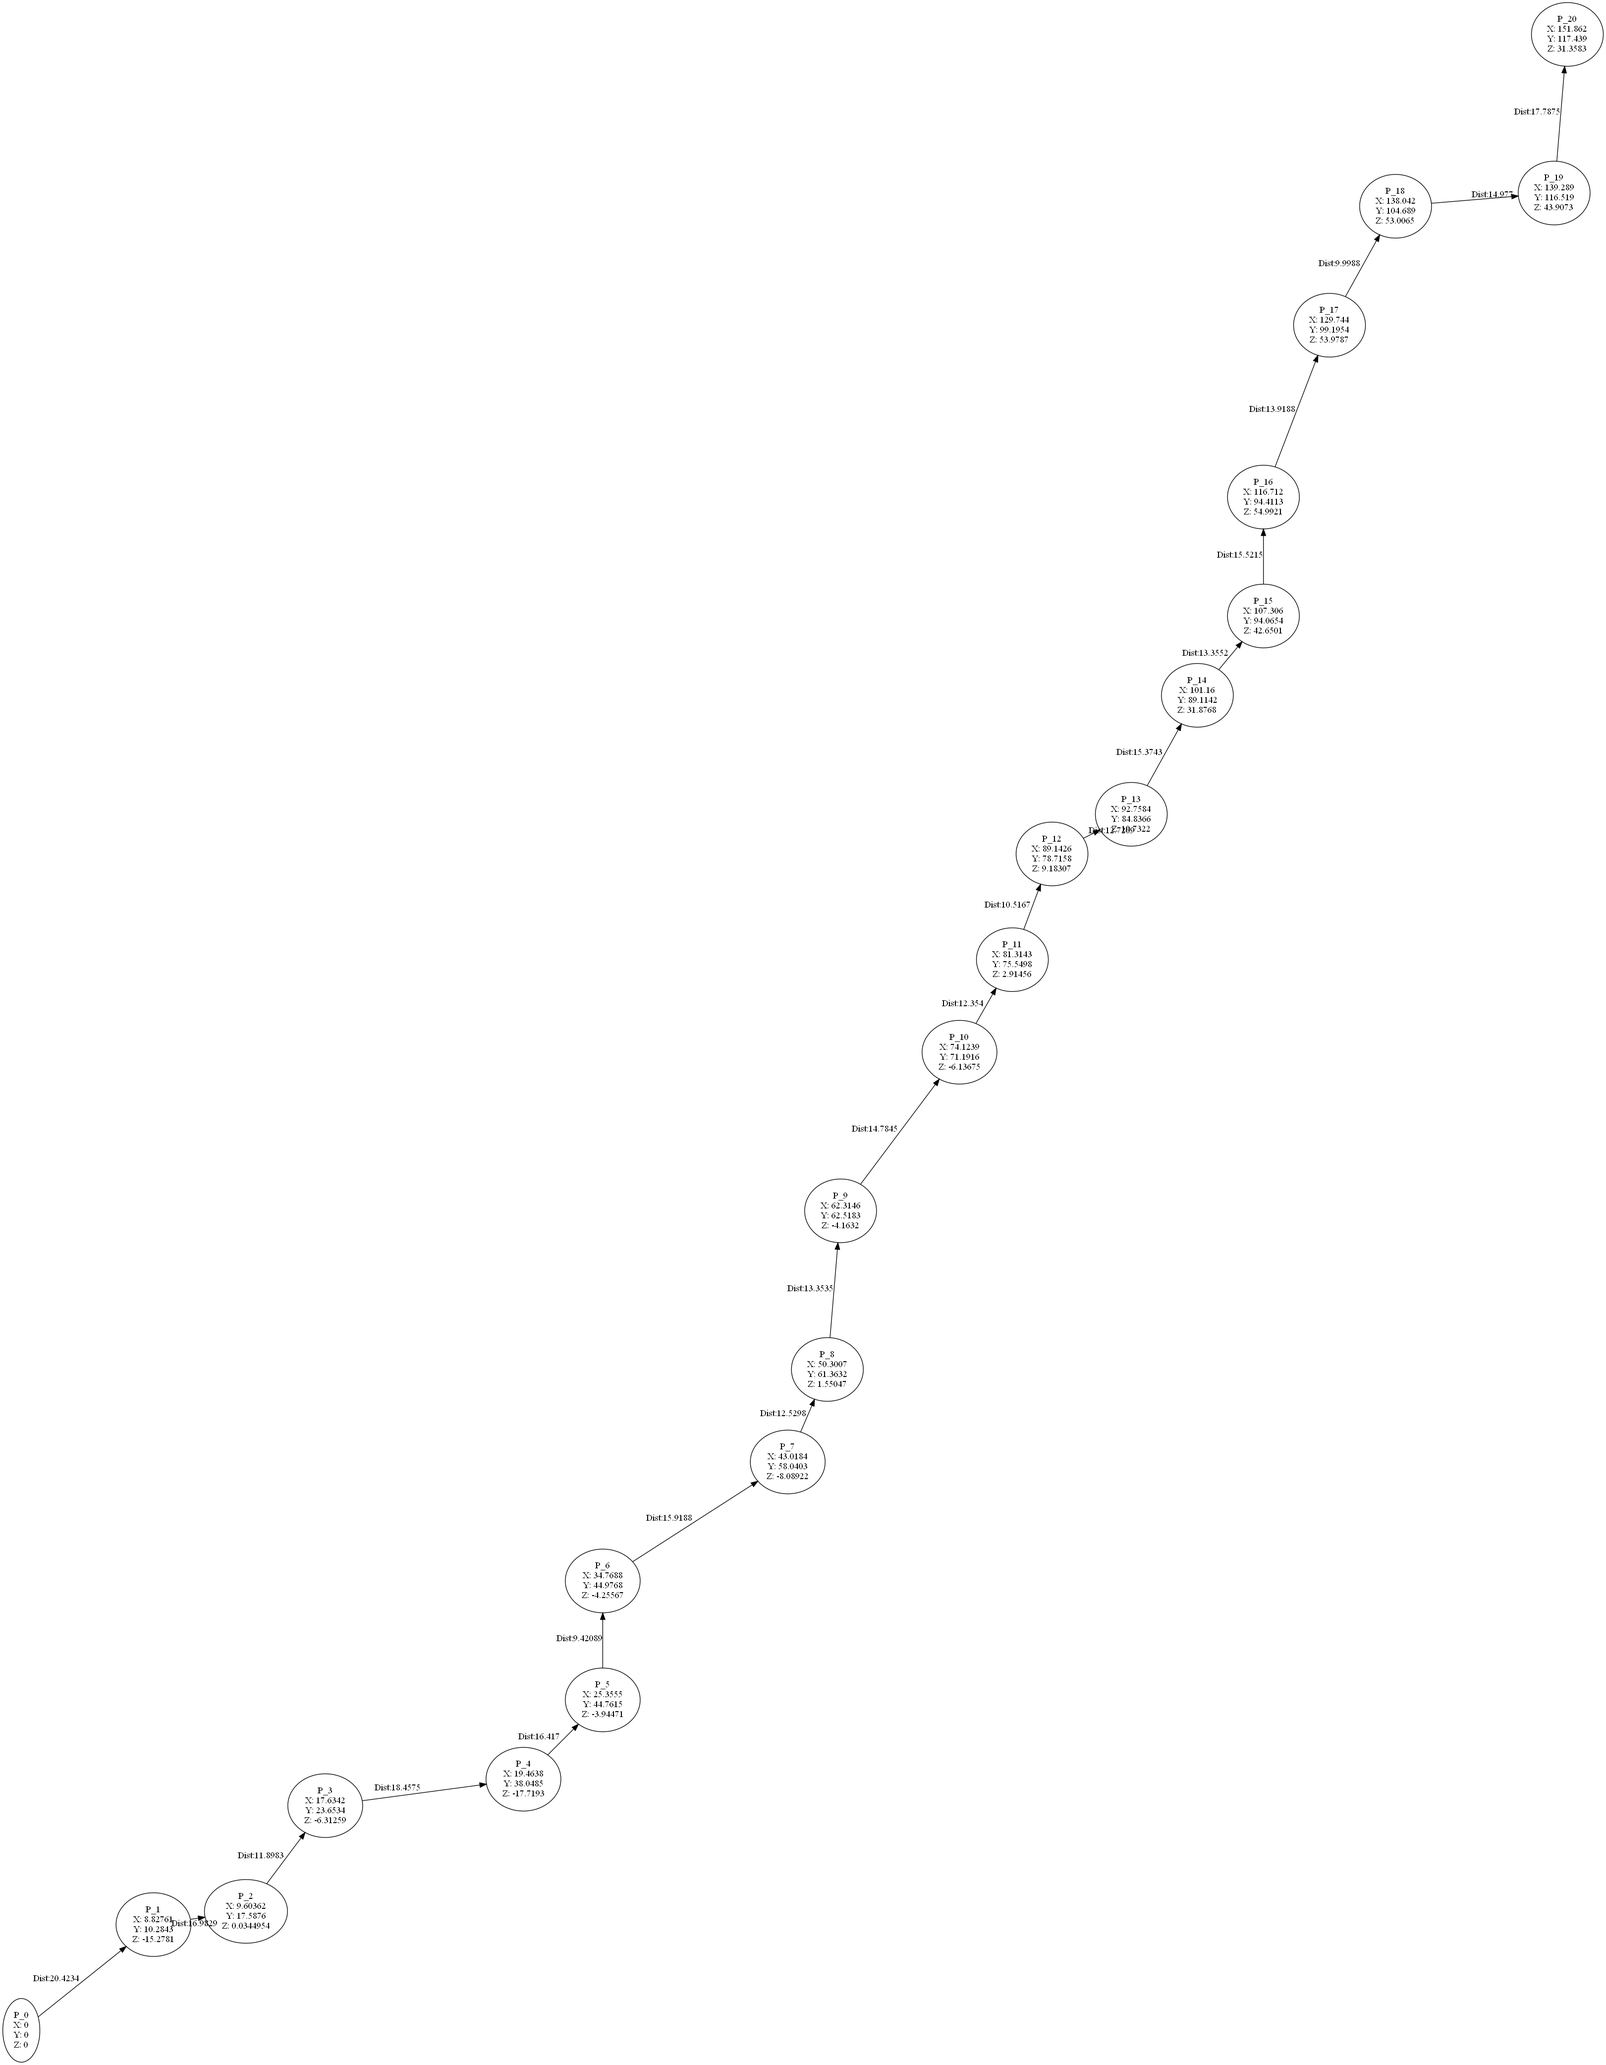
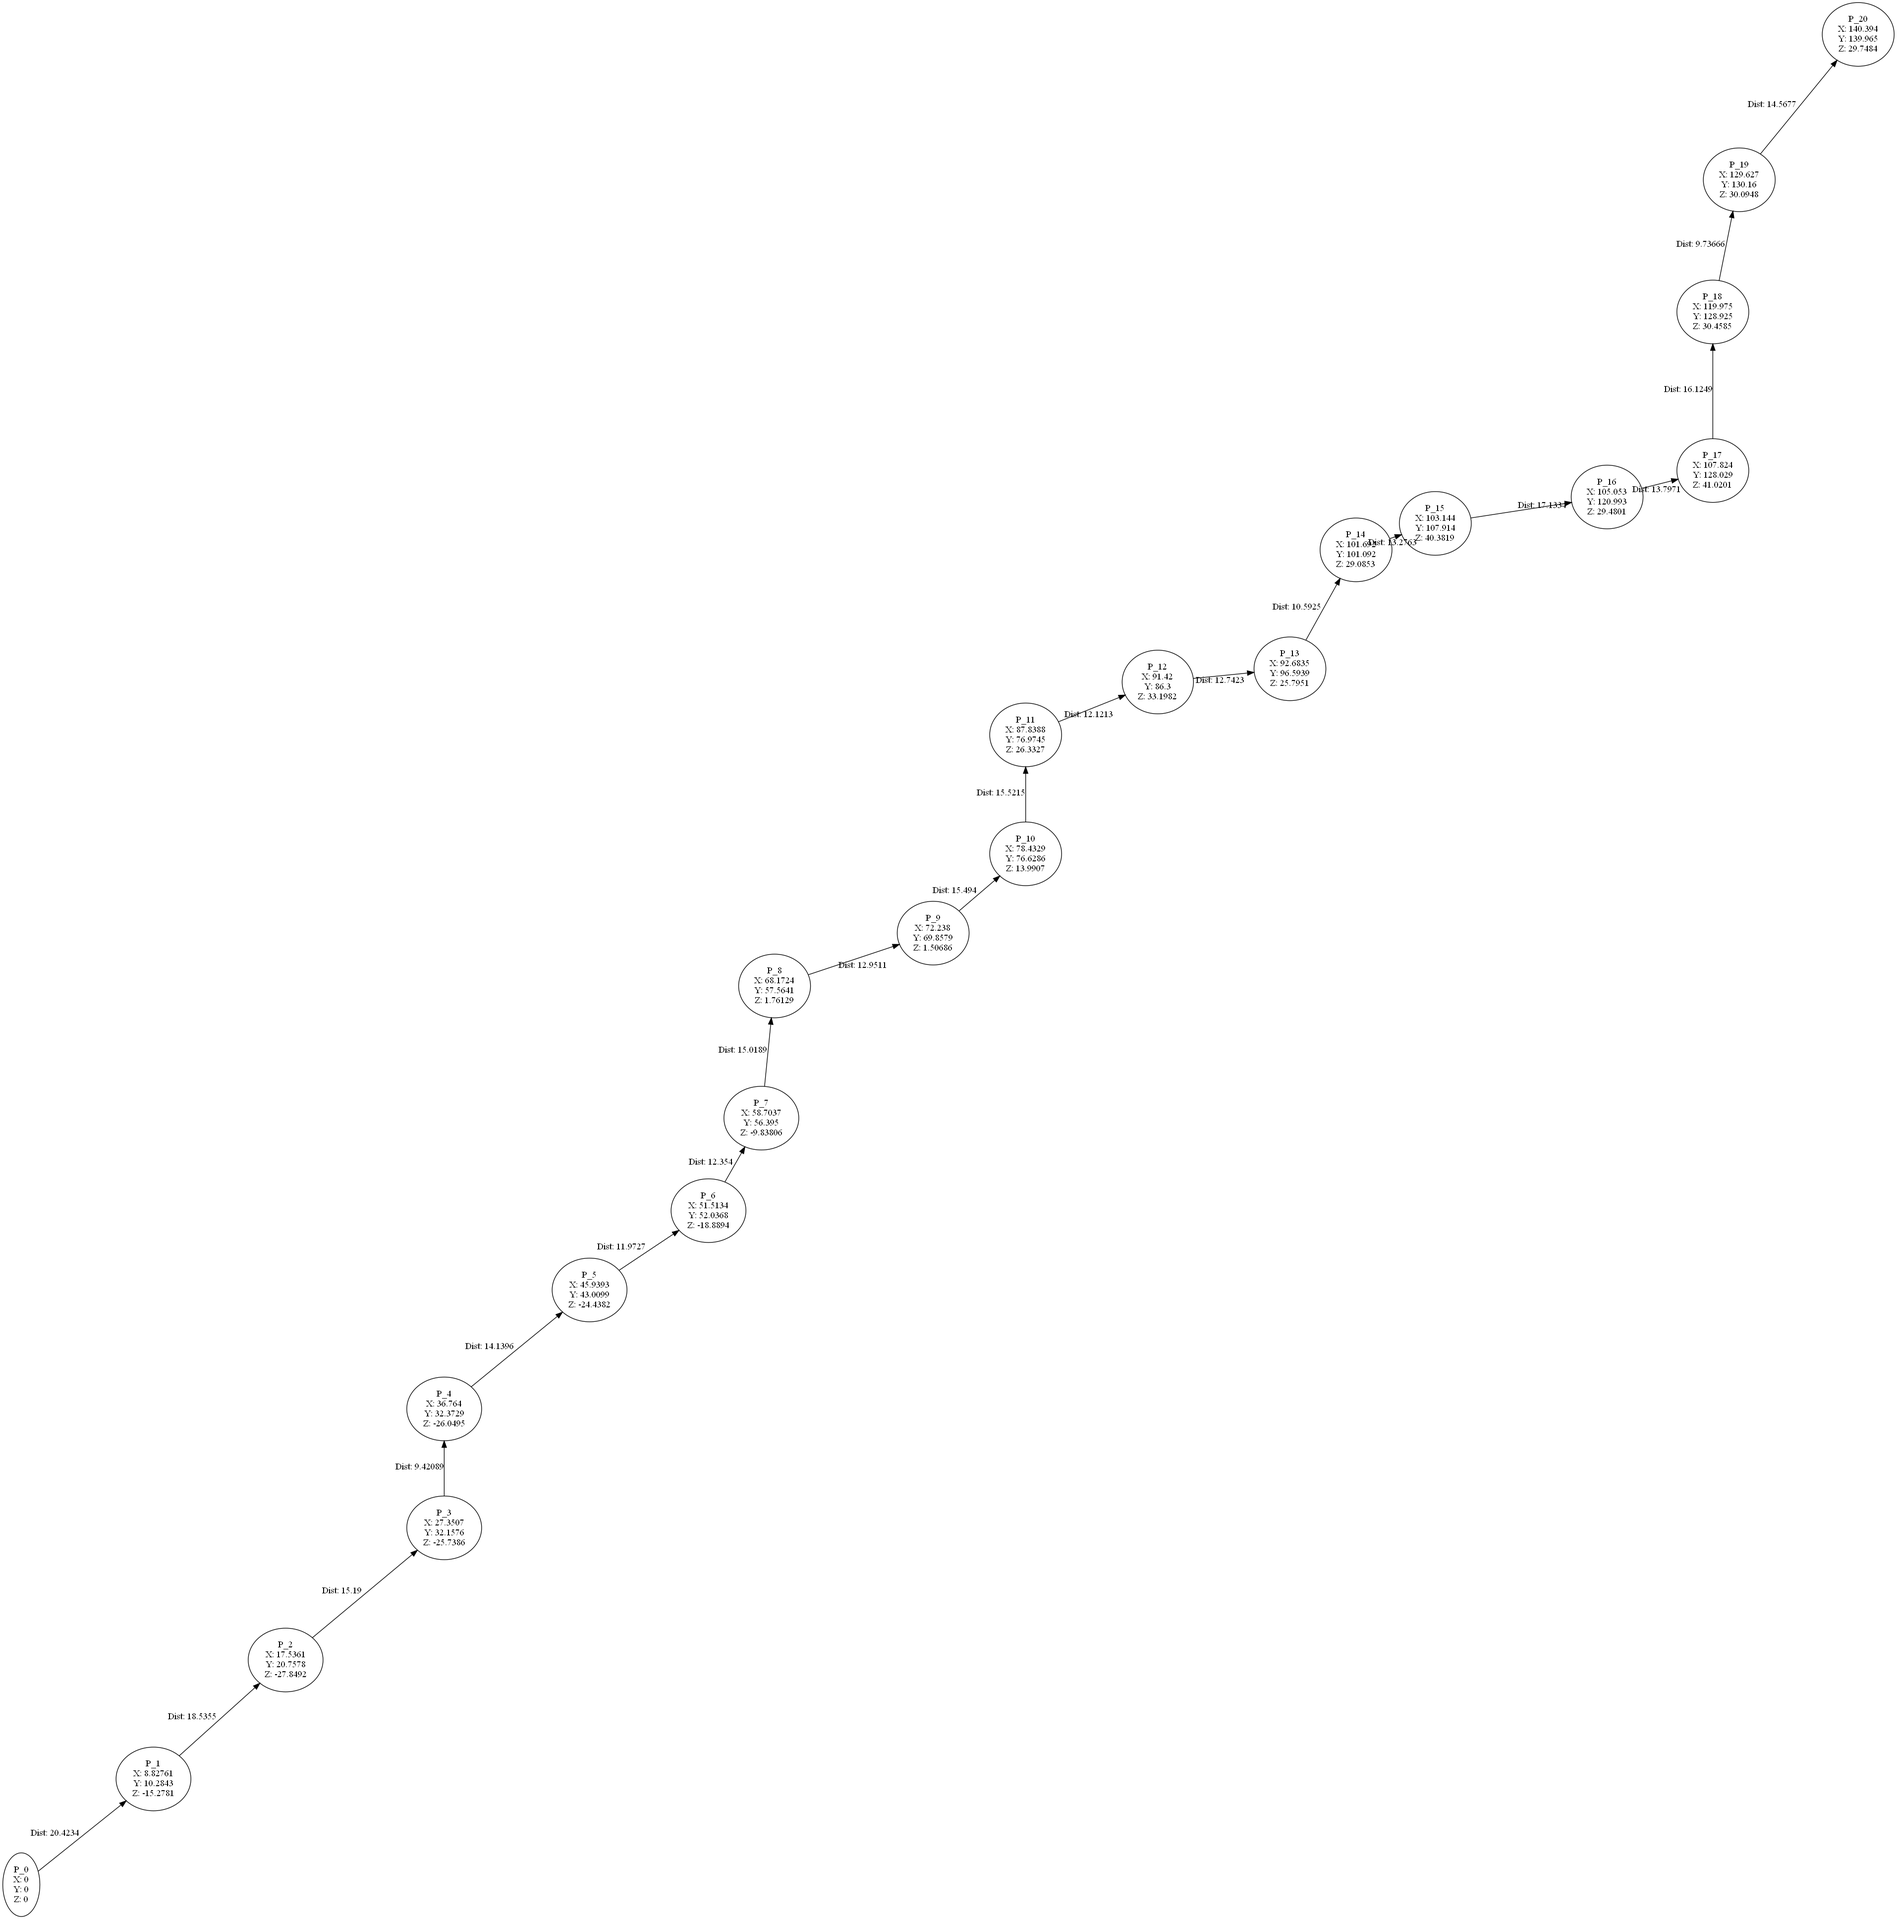
Auto stash before rebase of "origin/3D_engine"

diff --git a/void_rush/src/generation/Platform.cpp b/void_rush/src/generation/Platform.cpp
@@ -1,24 +1,46 @@
 #include "Platform.hpp"
 
 platform::platform ()
-    : pos ({ 0.0f, 0.0f, 0.0f }), obstacles (0), difficluty (0), rotation (0.0), next (nullptr)
+    : pos ({ 0.0f, 0.0f, 0.0f }), obstacles (0), difficluty (0),
+      rotation (0.0), next (nullptr)
 {
     platformShape.setShapeCube (this->pos);
+    rotMat.rotateAroundZ (this->rotation);
+    rotMat.rotateAroundZ (this->rotation);
+    for (int i = 0; i < this->platformShape.Vertexes.size (); i++)
+    {
+        rotMat.MultiplyVector (platformShape.Vertexes.at (i));
+    }
 }
 
-platform::platform (std::vector<float> pos, int obstacles, int difficluty, double rotation)
-    : obstacles (obstacles), difficluty (difficluty), rotation (rotation), next (nullptr)
+platform::platform (std::vector<float> pos, int obstacles, int difficluty,
+                    double rotation)
+    : obstacles (obstacles), difficluty (difficluty), rotation (rotation),
+      next (nullptr)
 {
     this->pos.x = pos[0];
     this->pos.y = pos[1];
     this->pos.z = pos[2];
     platformShape.setShapeCube (this->pos);
+    rotMat.rotateAroundZ (this->rotation);
+    rotMat.rotateAroundZ (this->rotation);
+    for (int i = 0; i < this->platformShape.Vertexes.size (); i++)
+    {
+        rotMat.MultiplyVector (platformShape.Vertexes.at (i));
+    }
 }
 
-platform::platform (Vector3 pos, int obstacles, int difficluty, double rotation)
-    : pos (pos), obstacles (obstacles), difficluty (difficluty), rotation (rotation), next (nullptr)
+platform::platform (Vector3 pos, int obstacles, int difficluty,
+                    double rotation)
+    : pos (pos), obstacles (obstacles), difficluty (difficluty),
+      rotation (rotation), next (nullptr)
 {
-    platformShape.setShapeCube (this->pos);
+    this->platformShape.setShapeCube (this->pos);
+    rotMat.rotateAroundZ (this->rotation);
+    for (int i = 0; i < this->platformShape.Vertexes.size (); i++)
+    {
+        rotMat.MultiplyVector (platformShape.Vertexes.at (i));
+    }
 }
 
 platform::~platform () {}
@@ -40,6 +62,8 @@ void platform::move (float xOfset, float yOfset, float zOfset)
 }
 
 Vector3 platform::getPos () { return this->pos; }
+
+double platform::getRotation () const { return this->rotation; }
 
 float platform::distance (Vector3 position) const
 {

diff --git a/void_rush/src/generation/Generate.cpp b/void_rush/src/generation/Generate.cpp
@@ -27,6 +27,7 @@ bool generation::start (int selectedDiff)
     float stepMin = pl->getJumpDistance () / minStepMod * selectedDiff;
     float distance = 0.0f;
     float stepMaxZ = pl->jumpHeight ();
+    float rotation = 0.0f;
     platform *current = startPlat;
     platform *newPlat = nullptr;
     for (int i = 0; i < this->elements; i++)
@@ -48,13 +49,13 @@ bool generation::start (int selectedDiff)
 
         position.x += dVect.x;
         position.y += dVect.y;
-
+        rotation = randF(0, 90);
         // Get random value for Z that is within possible jump
 
         if (this->pl->isJumpPossible (position) && dVect.magnitude () > stepMin
             && dVect.magnitude () < stepMax)
         {
-            newPlat = new platform (position, 0, 1);
+            newPlat = new platform (position, 0, 1, rotation);
             pl->moveto (newPlat->getPos ());
             current->next = newPlat;
             this->anchors.push_back (current);

diff --git a/void_rush/src/generation/Platform.hpp b/void_rush/src/generation/Platform.hpp
@@ -1,11 +1,10 @@
 #pragma once
-#include "../common/Vector.hpp"
-#include "../common/Shape.hpp"
 #include "../common/Matrix.hpp"
+#include "../common/Shape.hpp"
+#include "../common/Vector.hpp"
 #include <math.h>
 #include <memory>
 #include <vector>
-
 
 class platform
 {
@@ -15,6 +14,8 @@ class platform
     int difficluty;
     double rotation;
     Shape platformShape;
+    RotationMatrix rotMat;
+
   public:
     platform ();
     platform (std::vector<float> pos, int obstacles, int difficluty, double rotation = 0.0);
@@ -24,6 +25,7 @@ class platform
     void setPosition (Vector3 position);
     void move (float xOfset, float yOfset, float zOfset);
     Vector3 getPos ();
+    double getRotation () const;
     float distance (Vector3 position) const;
     float distance (std::vector<float> &position) const;
     platform *next;

diff --git a/void_rush/src/generation/proto.hpp b/void_rush/src/generation/proto.hpp
@@ -29,7 +29,8 @@ void generation_proto ()
         p.distance (d);
         std::cout << i << " platform.\nXPos: " << platforms[i]->getPos ().x
                   << " YPos: " << platforms[i]->getPos ().y
-                  << " ZPos: " << platforms[i]->getPos ().z << "\n";
+                  << " ZPos: " << platforms[i]->getPos ().z << "\n"
+                  << "Rotation: " << platforms[i]->getRotation () << "\n";
         if (i != platforms.size () - 1)
         {
             std::cout << i << " Distance to next "
